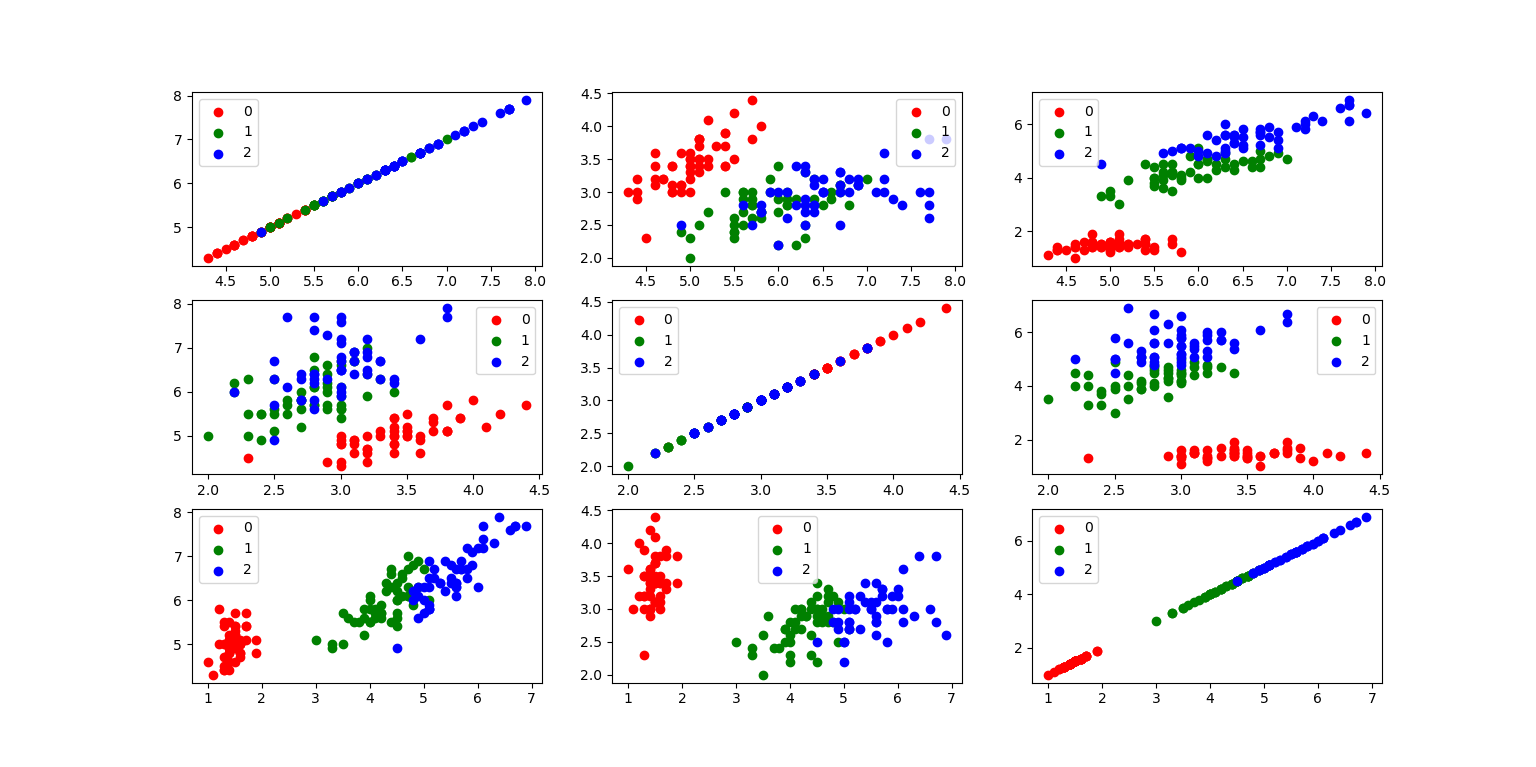
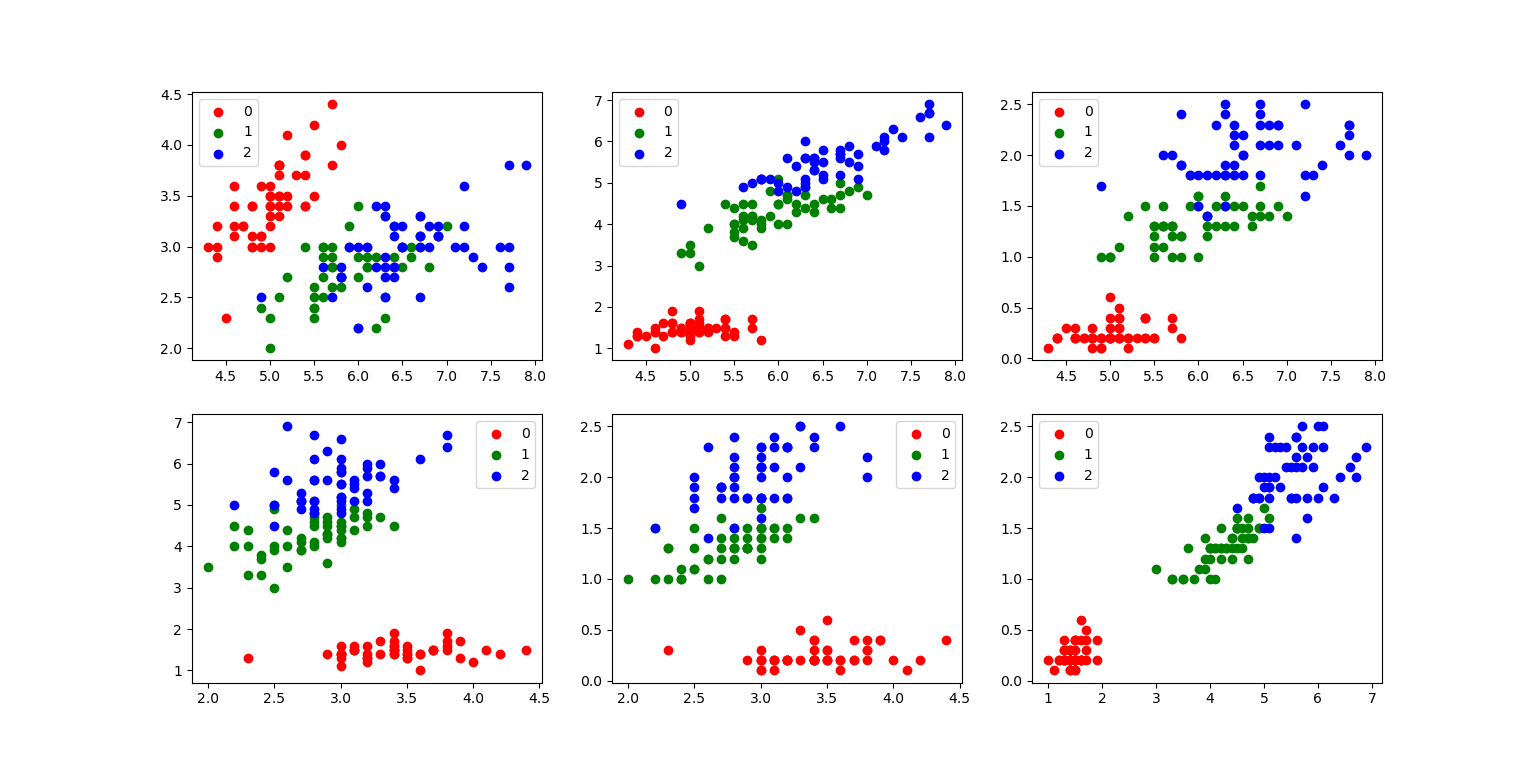
fix figure

diff --git a/MachineLearning/Course/Ch1/MED.py b/MachineLearning/Course/Ch1/MED.py
@@ -26,7 +26,7 @@ class MED(object):
         #生成训练集
         Iris_linear_train = data.iloc[0:int(len(data)*rate)]
         #print(Iris_linear_train)
-        X_train = Iris_linear_train[[0, 1, 2]]
+        X_train = Iris_linear_train[[0, 1, 2, 3]]
         Y_train = Iris_linear_train['target']
         #print(X_train)
         #print(Y_train)
@@ -34,7 +34,7 @@ class MED(object):
         #生成测试集
         Iris_linear_test = data.iloc[int(len(data)*rate):len(data)].reset_index(drop=True)
         #print(Iris_linear_test)
-        X_test = Iris_linear_test[[0, 1, 2]]
+        X_test = Iris_linear_test[[0, 1, 2, 3]]
         Y_test = Iris_linear_test['target']
         #print(X_test)
         #print(Y_test)
@@ -96,11 +96,14 @@ class MED(object):
         Iris_div = []
         for i in range(0,2):
             Iris_div.append(Iris_df[Iris_df['target']==i])
+        
         #颜色表
         colmaps = ['green', 'blue']
-        for i in range(0,3):
-            for j in range(0,3):
-                plt.subplot(4,3,3*i+j+1)
+        fig_id = 0
+        for i in range(0,4):
+            for j in range(i+1,4):
+                fig_id += 1
+                plt.subplot(3,3,fig_id)
                 for k in range(0,2):
                     #挑选出ij两个维度作为x轴和y轴，k作为目标种类
                     x_axis = Iris_div[k][i]
@@ -153,19 +156,19 @@ class MED(object):
             area_sum += FP / (FP + TN)
             area.append(area_sum)
         # PR
-        plt.subplot(4,3,10)
+        plt.subplot(3,3,7)
         plt.title('PR Curve')
         plt.xlabel('Recall')
         plt.ylabel('Precision')
         plt.plot(recall,precision)
         # ROC
-        plt.subplot(4,3,11)
+        plt.subplot(3,3,8)
         plt.title('ROC Curve')
         plt.xlabel('FPR')
         plt.ylabel('Recall')
         plt.plot(FPR,recall)
         # AUC
-        plt.subplot(4,3,12)
+        plt.subplot(3,3,9)
         plt.title('AUC Curve')
         plt.xlabel('area')
         plt.ylabel('Recall')

diff --git a/MachineLearning/Course/Ch1/Iris.py b/MachineLearning/Course/Ch1/Iris.py
@@ -19,16 +19,19 @@ for i in range(0,3):
 #颜色表
 colmaps = ['red', 'green', 'blue']
 
-for i in range(0,3):
-    for j in range(0,3):
+fig_id = 0
+for i in range(0,4):
+    for j in range(i+1,4):
+        fig_id += 1
+        plt.subplot(2,3,fig_id)
         for k in range(0,3):
             #挑选出ij两个维度作为x轴和y轴，k作为目标种类
             x_axis = Iris_div[k][i]
             y_axis = Iris_div[k][j]
             #画ij子图的第k种颜色
-            plt.subplot(3,3,3*i+j+1)
             plt.scatter(x_axis, y_axis, c=colmaps[k], label=k)
             #添加图例
             plt.legend()
+
 
 plt.show()

diff --git a/MachineLearning/Course/Ch1/README.md b/MachineLearning/Course/Ch1/README.md
@@ -322,16 +322,16 @@ if __name__ == '__main__':
 ```
 输出结果
 ```
-Accuracy:  0.7999999999999999
-Precision:  0.9166666666666666
-Recall:  0.6875
+Accuracy:  0.7666666666666667
+Precision:  0.9090909090909092
+Recall:  0.625
 Specificity:  0.9285714285714287
-F1score:  0.7857142857142857
+F1score:  0.7407407407407406
 ```
 
 ![](Figure_3.png)
 
-> 存在较多被误判的数据，准确度精度召回率特异度F1score均有所下降，其中召回率下降最多，PR曲线向左下移动，ROC曲线向右下移动
+> 存在较多被误判的数据，准确度精度召回率特异度F1score均有所下降，其中召回率下降最多，PR曲线向左下移动，ROC曲线向右下移动，AUC曲线向左下移动
 
 \6. 请使用5折交叉验证为Iris数据集训练一个多分类的贝叶斯分类器。给出平均Accuracy，并可视化实验结果。与第3题和第5题结果做比较，讨论贝叶斯分类器的优劣。
 
